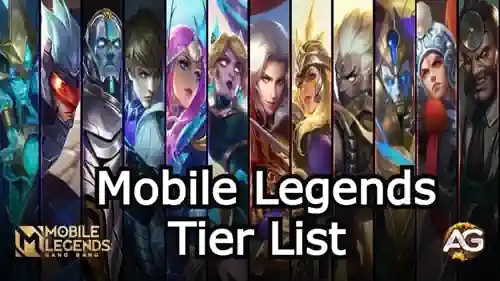
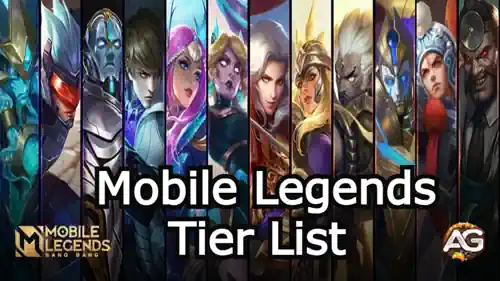
update tier list mlbb

diff --git a/mobile-legends/article-mlbb/tier-list-mlbb-en.html b/mobile-legends/article-mlbb/tier-list-mlbb-en.html
@@ -5,7 +5,7 @@
     <meta http-equiv="X-UA-Compatible" content="IE=edge">
     <meta name="viewport" content="width=device-width, initial-scale=1.0">
     <meta property="article:published_time" content="2024-10-26T13:32-03:00"/>
-    <meta property="article:modified_time" content="2025-03-24T20:51-03:00" />
+    <meta property="article:modified_time" content="2025-05-04T15:08-03:00" />
    
     <link rel="stylesheet" href="../../css/estilo13z.css">
    
@@ -148,14 +148,15 @@
   </div>
 
   
-<figure class="img-banner">
-  <picture>
-      <!-- Para telas grandes (PC) de 80kb a 150kb -->
-      <source media="(min-width: 768px)" srcset="../../img-MLBB/articles-img/tier-list-mlbb/mobile-legends-tier-list-1200px.webp">
-      <!-- Para telas menores (mobile) de 30kb a 70kb -->
-      <img src="../../img-MLBB/articles-img/tier-list-mlbb/mobile-legends-tier-list-500px.webp" alt="Illustration of Mobile Legends Bang Bang Tier List - Wallpaper" title="Tier List Guide - Mobile Legends Bang Bang" loading="lazy">
-  </picture>
-  <figcaption>Illustration of Mobile Legends Bang Bang Tier List. Photo: Disclosure/Mobile Legends.</figcaption>
+  <figure class="img-review">
+    <picture>
+        <!-- Para telas grandes (PC-800x450px) de 50kb a 150kb -->
+        <source media="(min-width: 768px)" srcset="../../img-MLBB/articles-img/tier-list-mlbb/mobile-legends-tier-list-800px.webp">
+        <!-- Para telas menores (mobile) de 20kb a 70kb -->
+        <img src="../../img-MLBB/articles-img/tier-list-mlbb/mobile-legends-tier-list-500px.webp" alt="Illustration of Mobile Legends Bang Bang Tier List - Wallpaper" title="Tier List Guide - Mobile Legends Bang Bang" loading="lazy">
+    </picture>
+    <figcaption>Illustration of Mobile Legends Bang Bang Tier List. Photo: Disclosure/Mobile Legends.</figcaption>
+  </figure>Illustration of Mobile Legends Bang Bang Tier List. Photo: Disclosure/Mobile Legends.</figcaption>
 </figure> 
 
 
@@ -313,7 +314,52 @@
       </table>
 
 
-      <!----------- Video 1 do Youtube padrao novo gpt ---------->
+     
+
+      
+      <hr>
+      
+      <h2>Mobile Legends Best Support - Tier List</h2>
+      <p>Support heroes are essential for empowering allies, offering healing, shields, or crowd control to enable better positioning and survival. Unlike tanks, supports focus on empowering their teammates rather than leading the front lines. <strong>Minotaur</strong> and <strong>Carmilla</strong> offer a unique mix of support and
+      
+       tank roles, capable of withstanding moderate damage while aiding teammates.</p>
+      
+      <p>Supports like <strong>Mathilda</strong> and <a href="../angela-english.html"><strong>Angela</strong></a> also offer excellent mobility and control, making them invaluable for team rotations and ambushes. They are best paired with allies who can utilize their skills effectively, as their low durability makes them vulnerable when isolated.</p>
+      
+      <table>
+        <thead>
+          <caption>Table: MLBB Best Support - Tier List</caption>
+          <tr>
+            <th>Tier</th>
+            <th>Heroes</th>
+          </tr>
+        </thead>
+        <tbody>
+          <tr><td>S+</td><td><a href="../kalea-mlbb-en.html">Kalea, </a>Chip, Mathilda,</td></tr>
+            <tr><td>S</td><td>Angela, Carmilla, Estes, Lolita, Johnson, Minotauro</td></tr>
+            <tr><td>A+</td><td>Diggie, Faramis, Floryn</td></tr>
+            <tr><td>A</td><td>Rafaela, Kaja</td></tr>
+        </tbody>
+      </table>
+      
+</section>
+
+
+
+
+<section>
+  <h2>Mobile Lengends Tier List Conclusion</h2>
+  <p>Our Mobile Legends: Bang Bang 5v5 MOBA Tier List has covered the best heroes in each class, from powerful Marksmen to resilient Tanks and versatile Supports. Understanding each hero’s strengths, roles, and ideal scenarios can make all the difference in winning strategies and team compositions.</p>
+  
+  <p>Remember, while this tier list highlights the current top picks, success in Mobile Legends ultimately depends on team coordination, strategy, and adapting to in-game challenges. Experiment with different heroes, refine your skills, and find the playstyle that suits you best.</p>
+  
+  <p>Stay tuned to Alexandre Games for updates on future patches, hero changes, and more insights to help you climb the ranks. Good luck on the battlefield, and may each match bring you closer to victory!</p>
+  
+  </section>
+
+
+
+   <!----------- Video 1 do Youtube padrao novo gpt ---------->
 <section>
   <h3>Roam Video suggestion</h3>
   <div class="video-container">
@@ -360,48 +406,6 @@
 
   </div> 
 </section> 
-
-      
-      <hr>
-      
-      <h2>Mobile Legends Best Support - Tier List</h2>
-      <p>Support heroes are essential for empowering allies, offering healing, shields, or crowd control to enable better positioning and survival. Unlike tanks, supports focus on empowering their teammates rather than leading the front lines. <strong>Minotaur</strong> and <strong>Carmilla</strong> offer a unique mix of support and
-      
-       tank roles, capable of withstanding moderate damage while aiding teammates.</p>
-      
-      <p>Supports like <strong>Mathilda</strong> and <a href="../angela-english.html"><strong>Angela</strong></a> also offer excellent mobility and control, making them invaluable for team rotations and ambushes. They are best paired with allies who can utilize their skills effectively, as their low durability makes them vulnerable when isolated.</p>
-      
-      <table>
-        <thead>
-          <caption>Table: MLBB Best Support - Tier List</caption>
-          <tr>
-            <th>Tier</th>
-            <th>Heroes</th>
-          </tr>
-        </thead>
-        <tbody>
-          <tr><td>S+</td><td><a href="../kalea-mlbb-en.html">Kalea, </a>Chip, Mathilda,</td></tr>
-            <tr><td>S</td><td>Angela, Carmilla, Estes, Lolita, Johnson, Minotauro</td></tr>
-            <tr><td>A+</td><td>Diggie, Faramis, Floryn</td></tr>
-            <tr><td>A</td><td>Rafaela, Kaja</td></tr>
-        </tbody>
-      </table>
-      
-</section>
-
-
-
-
-<section>
-  <h2>Mobile Lengends Tier List Conclusion</h2>
-  <p>Our Mobile Legends: Bang Bang 5v5 MOBA Tier List has covered the best heroes in each class, from powerful Marksmen to resilient Tanks and versatile Supports. Understanding each hero’s strengths, roles, and ideal scenarios can make all the difference in winning strategies and team compositions.</p>
-  
-  <p>Remember, while this tier list highlights the current top picks, success in Mobile Legends ultimately depends on team coordination, strategy, and adapting to in-game challenges. Experiment with different heroes, refine your skills, and find the playstyle that suits you best.</p>
-  
-  <p>Stay tuned to Alexandre Games for updates on future patches, hero changes, and more insights to help you climb the ranks. Good luck on the battlefield, and may each match bring you closer to victory!</p>
-  
-  </section>
-
  
     <!-------- Sugestões para os visitantes img 300x260 and English.html---------->
 

diff --git a/mobile-legends/article-mlbb/tier-list-mlbb-pt.html b/mobile-legends/article-mlbb/tier-list-mlbb-pt.html
@@ -7,7 +7,7 @@
 
 
     <meta property="article:published_time" content="2024-10-26T13:32-03:00"/>
-    <meta property="article:modified_time" content="2025-03-24T20:51-03:00" />
+    <meta property="article:modified_time" content="2025-05-04T15:08-03:00" />
     <link rel="stylesheet" href="../../css/estilo13z.css">
 
     <title>Mobile Legends: Bang Bang Tier List de Classes 2025</title>
@@ -157,15 +157,16 @@
 
     
 
-<figure class="img-banner">
+<figure class="img-review">
   <picture>
-      <!-- Para telas grandes (PC) de 80kb a 150kb -->
-      <source media="(min-width: 768px)" srcset="../../img-MLBB/articles-img/tier-list-mlbb/mobile-legends-tier-list-1200px.webp">
-      <!-- Para telas menores (mobile) de 30kb a 70kb -->
-      <img src="../../img-MLBB/articles-img/tier-list-mlbb/mobile-legends-tier-list-500px.webp" alt="Ilustração da Tier List de Mobile Legends Bang Bang - Papel de Parede" title="Guia da Tier List - Mobile Legends Bang Bang" loading="lazy">
+      <!-- Para telas grandes (PC - 800x450px) de 50kb a 150kb -->
+      <source media="(min-width: 768px)" srcset="../../img-MLBB/articles-img/tier-list-mlbb/mobile-legends-tier-list-800px.webp">
+      <!-- Para telas menores (celular) de 20kb a 70kb -->
+      <img src="../../img-MLBB/articles-img/tier-list-mlbb/mobile-legends-tier-list-500px.webp" alt="Ilustração da Tier List de Mobile Legends Bang Bang - Papel de Parede" title="Guia de Tier List - Mobile Legends Bang Bang" loading="lazy">
   </picture>
   <figcaption>Ilustração da Tier List de Mobile Legends Bang Bang. Foto: Divulgação/Mobile Legends.</figcaption>
 </figure>
+
 
 
 <section>
@@ -333,50 +334,6 @@
           </tbody>
         </table>
 
-        <!----------- Video 1 do Youtube padrao menor antigo ---------->
-<section>
-  <h3>Sugestões de Vídeo para Tanques:</h3>
-  <div class="video-container">
-    <div class="video-wrapper">
-        <iframe class="video-iframe"
-          loading="lazy"
-          srcdoc="<style>
-            * {
-              padding: 0;
-              margin: 0;
-              overflow: hidden;
-            }
-            img, svg {
-              position: absolute;
-              width: 100%;
-              top: 0;
-              bottom: 0;
-              margin: auto;
-            }
-            svg {
-              filter: drop-shadow(1px 1px 10px hsl(206.5, 70.7%, 8%));
-              transition: all 250ms ease-in-out;
-            }
-            body:hover svg {
-              filter: drop-shadow(1px 1px 10px hsl(206.5, 0%, 10%));
-              transform: scale(1.2);
-            }
-          </style>
-        <a href='https://www.youtube.com/embed/SvJ6ASfH6uM?autoplay=1'>
-          <img src='https://img.youtube.com/vi/SvJ6ASfH6uM/hqdefault.jpg' alt='Você Sabe como Jogar e Rotacionar de Tanque? Descubra as Estratégias que Ninguém Conta! MLBB' title='Você Sabe como Jogar e Rotacionar de Tanque? Descubra as Estratégias que Ninguém Conta! MLBB' loading='lazy'>
-          <svg xmlns='http://www.w3.org/2000/svg' width='64' height='64' viewBox='0 0 24 24' fill='none' stroke='red' stroke-width='2' stroke-linecap='round' stroke-linejoin='round' class='feather feather-play-circle'><circle cx='12' cy='12' r='10'></circle><polygon points='10 8 16 12 10 16 10 8'></polygon></svg>
-        </a>
-        "
-        src="https://www.youtube.com/embed/SvJ6ASfH6uM" 
-      
-        frameborder="0"
-        allow="accelerometer; autoplay; clipboard-w/rite; encrypted-media; gyroscope; picture-in-picture" 
-        notallowfullscreen>
-      </iframe>
-    </div>
-    <figcaption class="video-caption">Vídeo: Você Sabe como Jogar e Rotacionar de Tanque? Descubra as Estratégias que Ninguém Conta! MLBB</figcaption>
-  </div> 
-</section> 
 
         
         <hr>
@@ -421,6 +378,52 @@
     
   </section>
   
+
+  
+        <!----------- Video 1 do Youtube padrao menor antigo ---------->
+<section>
+  <h3>Sugestões de Vídeo para Rotação:</h3>
+  <div class="video-container">
+    <div class="video-wrapper">
+        <iframe class="video-iframe"
+          loading="lazy"
+          srcdoc="<style>
+            * {
+              padding: 0;
+              margin: 0;
+              overflow: hidden;
+            }
+            img, svg {
+              position: absolute;
+              width: 100%;
+              top: 0;
+              bottom: 0;
+              margin: auto;
+            }
+            svg {
+              filter: drop-shadow(1px 1px 10px hsl(206.5, 70.7%, 8%));
+              transition: all 250ms ease-in-out;
+            }
+            body:hover svg {
+              filter: drop-shadow(1px 1px 10px hsl(206.5, 0%, 10%));
+              transform: scale(1.2);
+            }
+          </style>
+        <a href='https://www.youtube.com/embed/SvJ6ASfH6uM?autoplay=1'>
+          <img src='https://img.youtube.com/vi/SvJ6ASfH6uM/hqdefault.jpg' alt='Você Sabe como Jogar e Rotacionar de Tanque? Descubra as Estratégias que Ninguém Conta! MLBB' title='Você Sabe como Jogar e Rotacionar de Tanque? Descubra as Estratégias que Ninguém Conta! MLBB' loading='lazy'>
+          <svg xmlns='http://www.w3.org/2000/svg' width='64' height='64' viewBox='0 0 24 24' fill='none' stroke='red' stroke-width='2' stroke-linecap='round' stroke-linejoin='round' class='feather feather-play-circle'><circle cx='12' cy='12' r='10'></circle><polygon points='10 8 16 12 10 16 10 8'></polygon></svg>
+        </a>
+        "
+        src="https://www.youtube.com/embed/SvJ6ASfH6uM" 
+      
+        frameborder="0"
+        allow="accelerometer; autoplay; clipboard-w/rite; encrypted-media; gyroscope; picture-in-picture" 
+        notallowfullscreen>
+      </iframe>
+    </div>
+    <figcaption class="video-caption">Vídeo: Você Sabe como Jogar e Rotacionar de Tanque? Descubra as Estratégias que Ninguém Conta! MLBB</figcaption>
+  </div> 
+</section> 
 
  
 <h2>Explore novas habilidades com nossos guias em destaque!</h2>
